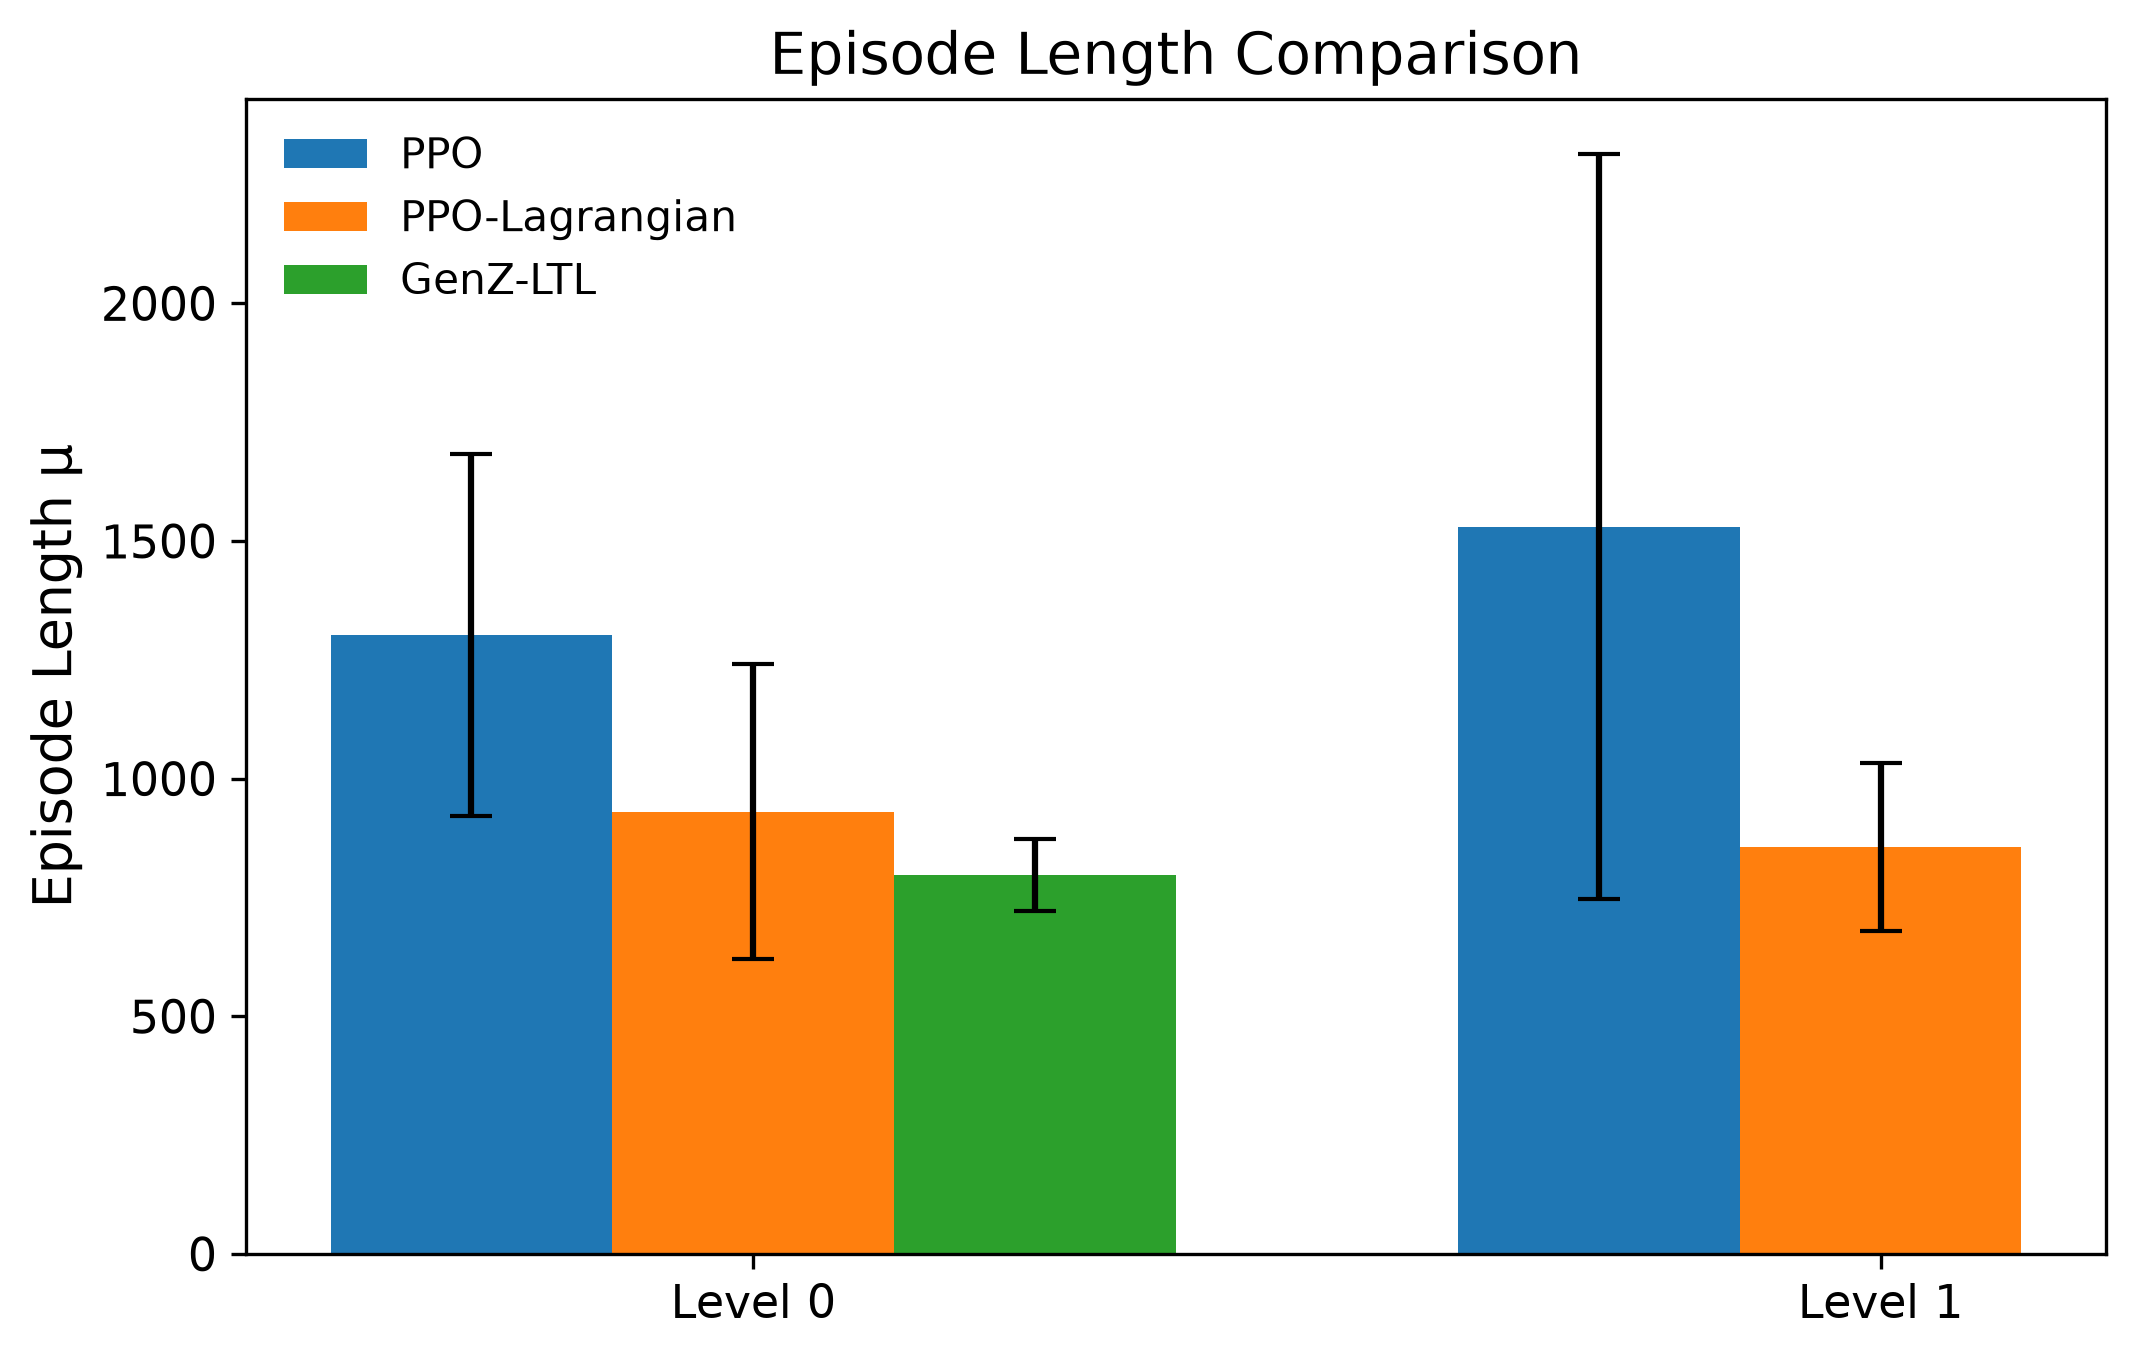
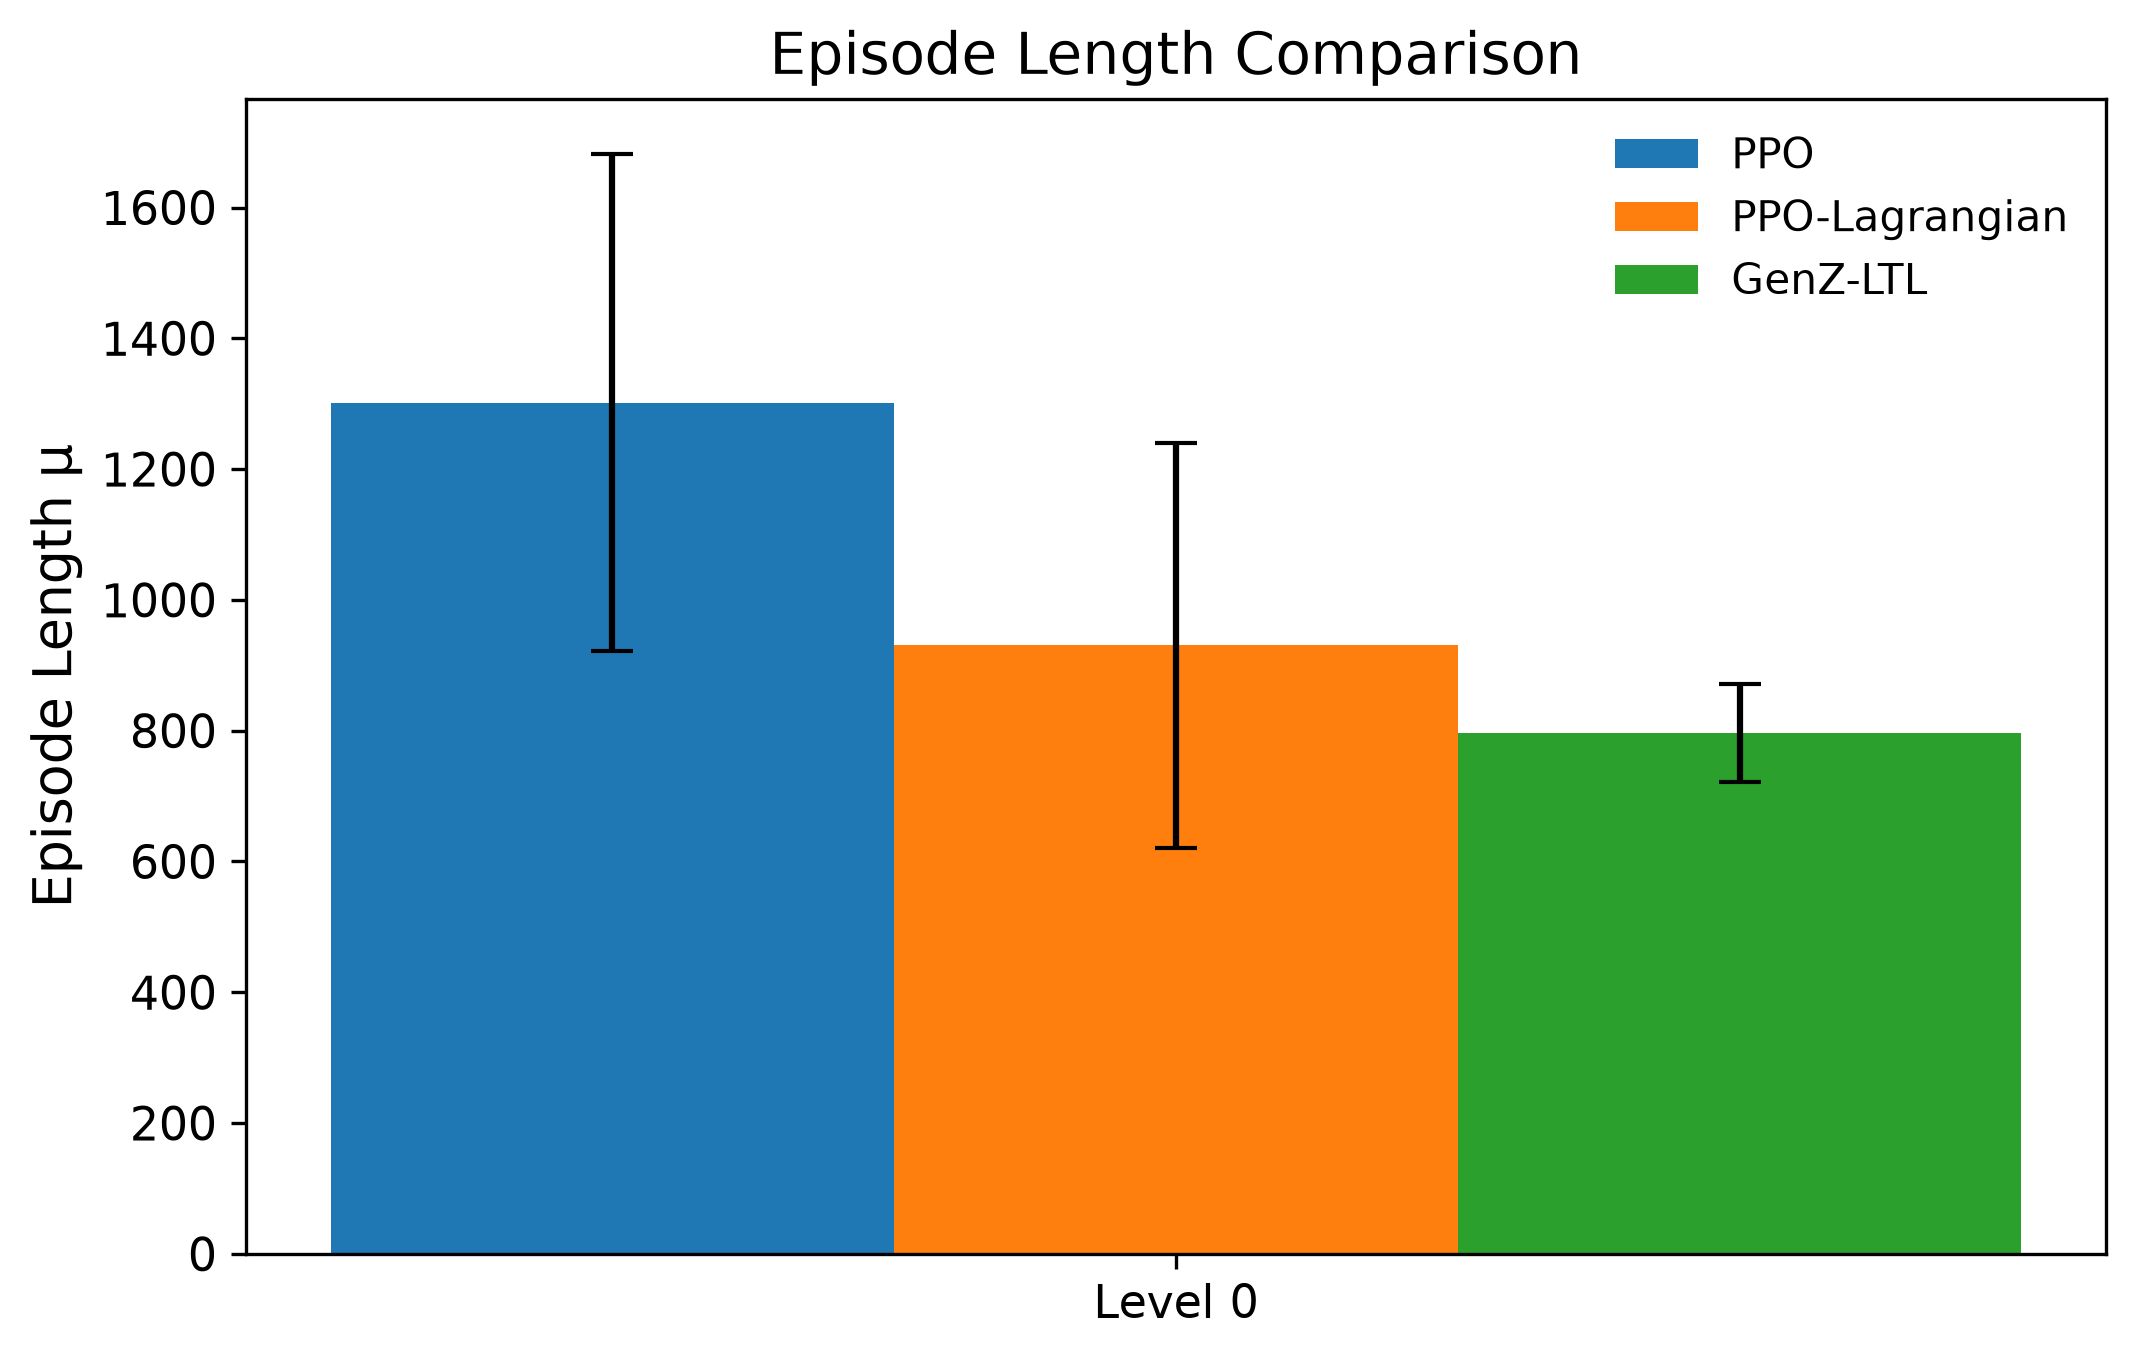
Updated graphs for only Level 0; edited GenZ debug env for testing wall lidar

diff --git a/RISE-Training/visuals/ltl_graphs.py b/RISE-Training/visuals/ltl_graphs.py
@@ -6,7 +6,7 @@ import os
 # Data
 # ============================================================
 
-levels = ["Level 0", "Level 1"]
+levels = ["Level 0"]
 algorithms = ["PPO", "PPO-Lagrangian", "GenZ-LTL"]
 
 data = {
